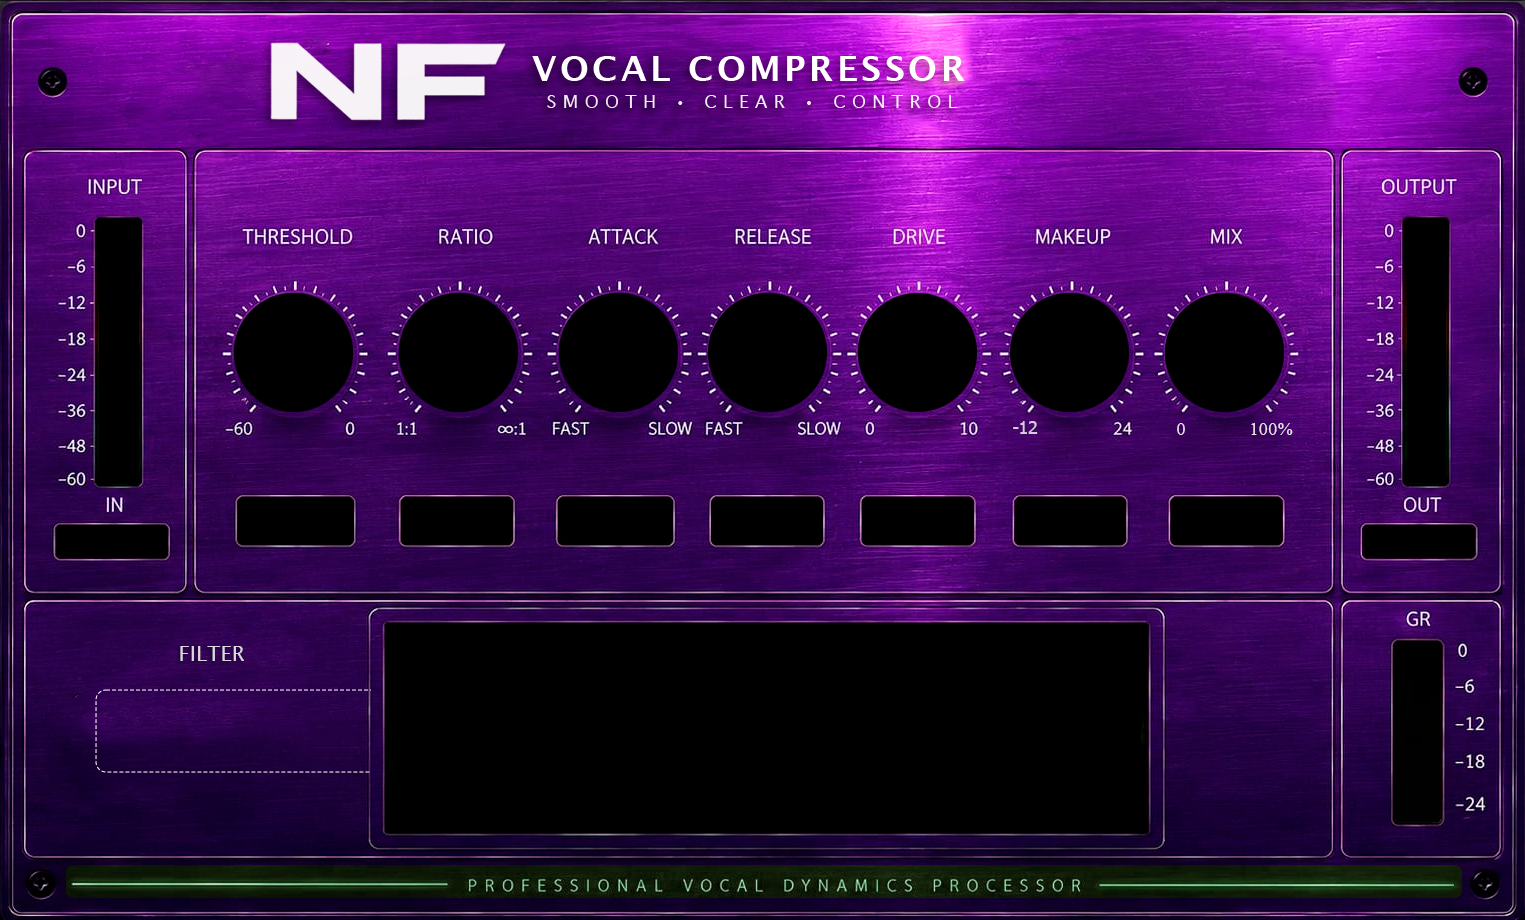
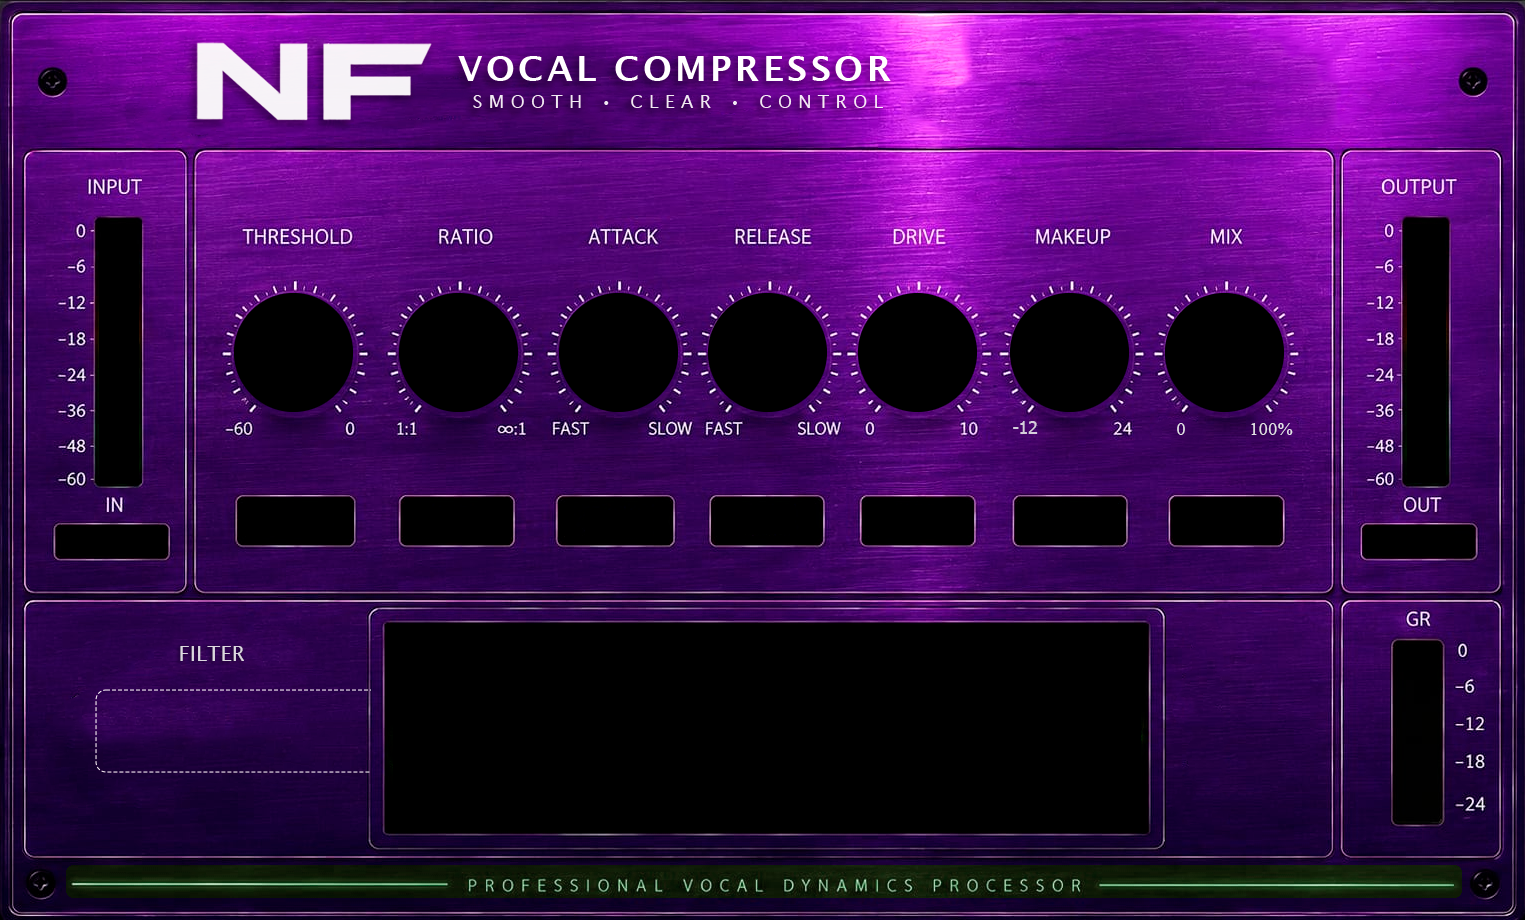
Novo faceplate, recentraliza preset bar, renomeia botao pra EQ ON/OFF
Faceplate trocado (arte nova do Paulo) - titulo "VOCAL COMPRESSOR" ficou
mais curto que antes, entao a preset bar precisou ser remedida e
recentralizada no novo vao entre o fim do texto (~x889) e o parafuso
decorativo (~x1460).

Botao "PRE COMP" renomeado pra "EQ ON/OFF" (mais claro sobre o que ele
faz) - so o texto mudou, comportamento/attachment identicos.

Changed region(s): [[0.1233, 0.0304, 0.6472, 0.1522]]

diff --git a/Source/UI/EQGraphComponent.h b/Source/UI/EQGraphComponent.h
@@ -205,7 +205,7 @@ private:
         return raw != nullptr ? raw->load() : 0.0f;
     }
 
-    /** Estado do botão PRE COMP (liga/desliga o EQ inteiro no áudio, ver
+    /** Estado do botão EQ ON/OFF (liga/desliga o EQ inteiro no áudio, ver
         PluginProcessor::processBlock) - usado pra desenhar a curva e os
         nós em cinza (aparência "desligada") quando ele estiver OFF. */
     bool isEqEnabled() const { return getReal("Enabled") > 0.5f; }
@@ -366,8 +366,8 @@ private:
     }
 
     /** Curva do Pré EQ (único filtro que existe agora) - glow duplo pra dar
-        destaque sobre o espectro/grade atrás dela. Quando o botão PRE COMP
-        está OFF (EQ bypassado no áudio de verdade), a curva fica cinza e
+        destaque sobre o espectro/grade atrás dela. Quando o botão EQ
+        ON/OFF está OFF (EQ bypassado no áudio de verdade), a curva fica cinza e
         discreta - visualmente "desligada", em vez de continuar laranja
         como se estivesse atuando. */
     void drawCurve(juce::Graphics& g, juce::Rectangle<float> area)
@@ -440,7 +440,7 @@ private:
         g.strokePath(line, juce::PathStrokeType(1.4f, juce::PathStrokeType::curved, juce::PathStrokeType::rounded));
     }
 
-    /** Desenha os 5 nós arrastáveis. Quando o PRE COMP está OFF, todos os
+    /** Desenha os 5 nós arrastáveis. Quando o EQ ON/OFF está OFF, todos os
         nós (independente da cor original de cada banda) ficam cinza e
         mais apagados - mesma lógica "desligada" da curva, ver drawCurve(). */
     void drawNodes(juce::Graphics& g, juce::Rectangle<float> area)
@@ -516,17 +516,17 @@ private:
         return juce::String((int) freq) + " Hz";
     }
 
-    /** Rótulo PRE COMP, sempre no canto superior esquerdo (ao lado do botão
-        físico RESET, que é um componente filho de verdade - ver
+    /** Rótulo EQ ON/OFF, sempre no canto superior esquerdo (ao lado do
+        botão físico RESET, que é um componente filho de verdade - ver
         resetButton/resized()). Cinza quando o EQ está OFF, mesma lógica da
         curva/nós. */
     void drawHeader(juce::Graphics& g, juce::Rectangle<float> /*area*/)
     {
         auto labelBounds = juce::Rectangle<float>(resetButton.getRight() + 6.0f, (float) resetButton.getY(),
-                                                    80.0f, (float) resetButton.getHeight());
+                                                    90.0f, (float) resetButton.getHeight());
         g.setColour(isEqEnabled() ? juce::Colour(0xffff9a3c) : juce::Colour(0xff707078));
         g.setFont(juce::Font(juce::FontOptions(12.0f, juce::Font::bold)));
-        g.drawFittedText("PRE COMP", labelBounds.getSmallestIntegerContainer(),
+        g.drawFittedText("EQ ON/OFF", labelBounds.getSmallestIntegerContainer(),
                           juce::Justification::centredLeft, 1);
     }
 

diff --git a/Source/PluginEditor.cpp b/Source/PluginEditor.cpp
@@ -87,15 +87,15 @@ namespace
     constexpr float bypassBtnX0 = 0.777377f, bypassBtnX1 = 0.862623f;
     constexpr float bypassBtnY0 = 0.768478f, bypassBtnY1 = 0.822826f;
 
-    // Barra de presets ("‹ Nome › ☰") no topo, à direita do título "NF
-    // VOCAL COMPRESSOR" - usa quase todo o vão livre entre o fim do
-    // texto do título (~x963) e o parafuso decorativo (~x1460). ATENÇÃO:
-    // nessa faixa de X (975-1450) não tem texto nenhum abaixo de y=15 -
-    // o "SMOOTH CLEAR CONTROL" só existe mais à esquerda, embaixo do
-    // título - então o espaço vertical de verdade disponível aqui vai de
-    // y=15 até a borda do painel de knobs em y=148, bem mais alto que a
-    // faixa estreita usada antes. Centralizado nesse vão real.
-    constexpr float presetBarX0 = 0.639344f, presetBarX1 = 0.950820f;
+    // Barra de presets ("‹ Nome › ☰") no topo, centralizada no vão livre
+    // entre o fim do texto do título "VOCAL COMPRESSOR" (~x889 no
+    // faceplate atual) e o parafuso decorativo (~x1460) - medido de novo
+    // a cada troca de faceplate, já que a posição do texto muda. Nessa
+    // faixa de X não tem texto nenhum abaixo de y=15 (o "SMOOTH CLEAR
+    // CONTROL" só existe mais à esquerda, embaixo do título), então o
+    // espaço vertical de verdade disponível vai até a borda do painel de
+    // knobs em y=148 - centralizado nesse vão real.
+    constexpr float presetBarX0 = 0.616393f, presetBarX1 = 0.924590f;
     constexpr float presetBarY0 = 0.059783f, presetBarY1 = 0.121739f;
 }
 

diff --git a/Source/PluginEditor.h b/Source/PluginEditor.h
@@ -75,11 +75,11 @@ private:
 
     // Botão físico compacto (corpo sempre preto/grafite, LED circular à
     // esquerda que acende quando ON) - ver UI/HardwareButton.h. Único
-    // dentro da caixa FILTER agora: PRE COMP (o EQ que atua antes do
-    // compressor) - liga/desliga o EQ inteiro (parâmetro real, via
-    // attachment). O HPF do detector do compressor foi removido da UI
-    // (redundante - o Pre EQ já tem seu próprio Low Cut).
-    HardwareButton preOnButton { "PRE COMP" };
+    // dentro da caixa FILTER agora: EQ ON/OFF (liga/desliga o EQ inteiro
+    // que atua antes do compressor, parâmetro real via attachment). O
+    // HPF do detector do compressor foi removido da UI (redundante - o
+    // Pre EQ já tem seu próprio Low Cut).
+    HardwareButton preOnButton { "EQ ON/OFF" };
 
     // BYPASS: fica na área vazia à direita do gráfico Spectrum/RTA (mesma
     // altura da caixa GR, ao lado dela) - texto "BYPASS" desenhado dentro
